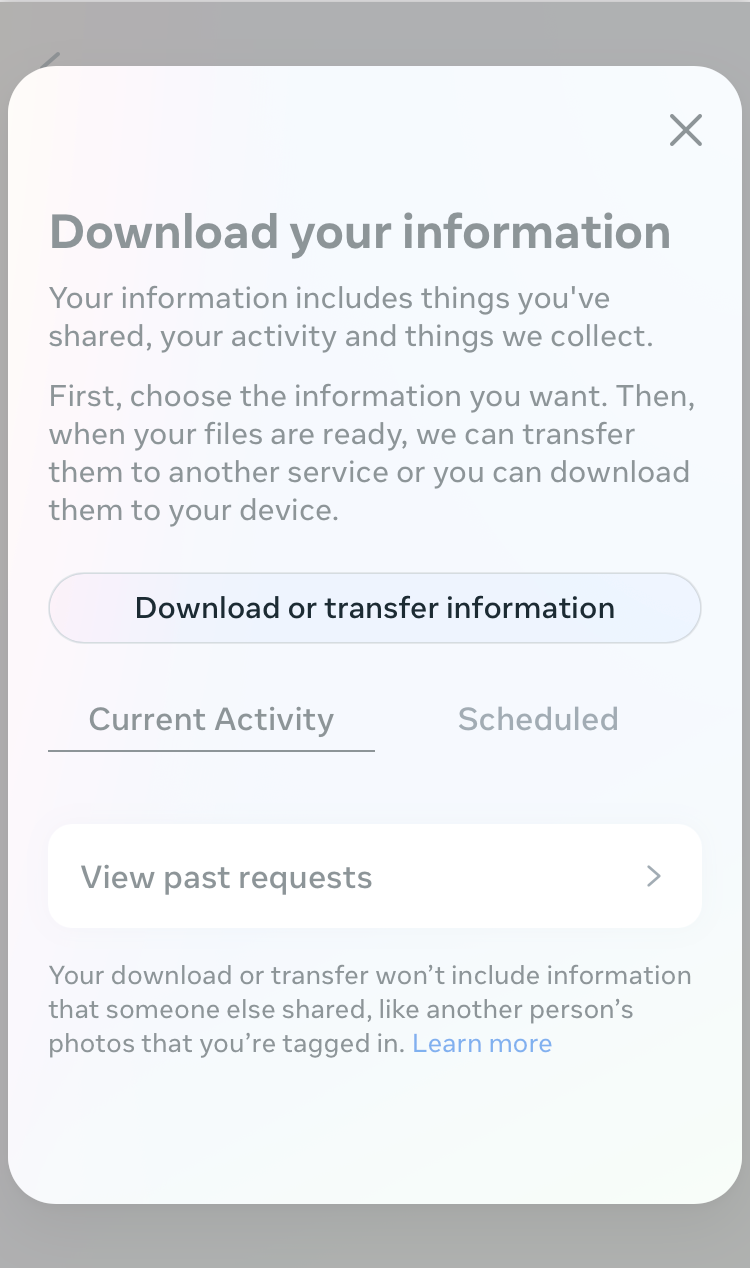
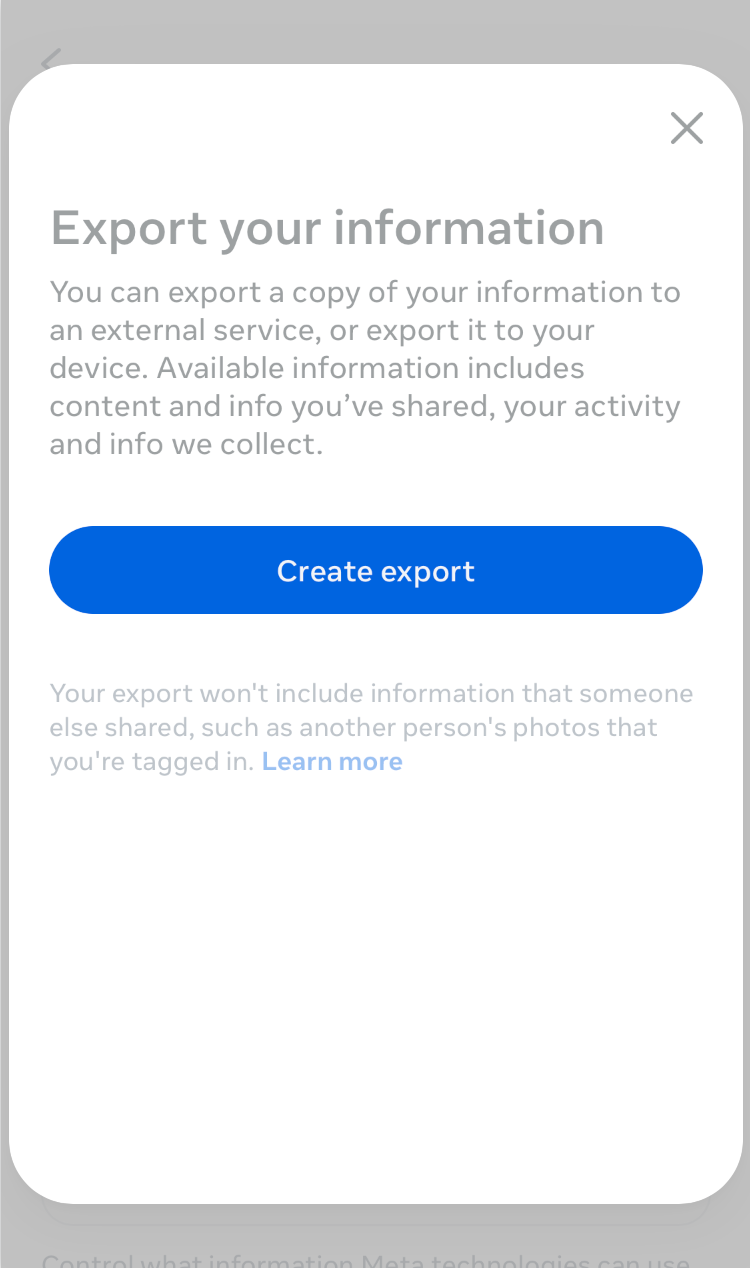
Update tutorial steps

diff --git a/src/lib/tutorial/StepCarousel.svelte b/src/lib/tutorial/StepCarousel.svelte
@@ -35,7 +35,7 @@
 	<StepSlide>
 		<div>
 			<button on:click={handleOpenInstagram}>{isIOS ? "Open" : "Go to"} Instagram’s <strong>Download your information</strong> page.</button>
-			<p>Select <strong>Download or transfer information</strong>.</p>
+			<p>Select <strong>Create Export</strong>.</p>
 		</div>
 		<img src="/tutorial/1 Landing.png" alt="The Instagram “download your information” tool landing page." loading="lazy">
 	</StepSlide>
@@ -46,36 +46,32 @@
 	</StepSlide>
 	
 	<StepSlide>
-		<p>Select <strong>Some of your information</strong>.</p>
-		<img src="/tutorial/3 How Much Info.png" alt="How much information do you want? You can get all available information for your selected profile or choose specific information. Option 1: All available information. Your file will include a complete copy of information for your selected profiles. May take longer to download. Option 2: Some of your information. Your file will include the information you choose for your selected profiles." loading="lazy">
+		<p>Select <strong>Export to your device</strong>.</p>
+		<img src="/tutorial/3 Download Device.png" alt="Choose where to export. You can export info to your device or to an external service. 'Export to device' is selected." loading="lazy">
+	</StepSlide>
+	
+	<StepSlide>
+		<p>Select <strong>Customize information</strong>.</p>
+		<img src="/tutorial/4 Configure.png" alt="Confirm your export. The 'Customize information' button is highlighted." loading="lazy">
 	</StepSlide>
 	
 	<StepSlide>
 		<p>Scroll to <strong>Followers and following</strong> and select it.</p>
-		<img src="/tutorial/4 Only Followers Following.png" alt="A list of the types of downloadable data. The only type selected is 'Followers and following' under the 'Connections' section." loading="lazy">
-	</StepSlide>
-	
-	<StepSlide>
-		<p>Choose <strong>Download to device</strong>.</p>
-		<img src="/tutorial/5 Download Device.png" alt="What do you want to do with your information? Option 1: Download to device. Option 2 (selected): Transfer to destination" loading="lazy">
+		<p>You can leave everything else turned off.</p>
+		<img src="/tutorial/5 Only Followers Following.png" alt="A list of the types of downloadable data. The only type selected is 'Followers and following' under the 'Connections' section." loading="lazy">
 	</StepSlide>
 
 	<StepSlide>
 		<p>Set <strong>Date range</strong> to <strong>All time</strong>.</p>
 		<p>Set <strong>Format</strong> to <strong>JSON</strong>.</p>
-		<p>Select <strong>Create files</strong>.</p>
+		<p>Select <strong>Start export</strong>.</p>
 		<img src="/tutorial/6 Create Files.png" alt="Create files to download. Date range: All time. Format: JSON." loading="lazy">
 	</StepSlide>
 
 	<StepSlide>
-		<p>Wait for Instagram to generate the files.</p>
-		<p>This may take a few minutes. I don’t know why.</p>
-		<img src="/tutorial/7 Archive Pending.png" alt="Current activity. One file set in progress." loading="lazy">
-	</StepSlide>
-
-	<StepSlide>
-		<p>Select <strong>Download</strong>, then enter your password.</p>
-		<img src="/tutorial/8 Archive Ready.png" alt="Current activity. Available downloads: one file set." loading="lazy">
+		<p>Wait for Instagram to generate the files This could take a few minutes if you’re popular.</p>
+		<p>Download it when it’s ready.</p>
+		<img src="/tutorial/7 Archive Ready.png" alt="Current activity. Available downloads: one file set." loading="lazy">
 	</StepSlide>
 </ol>
 
